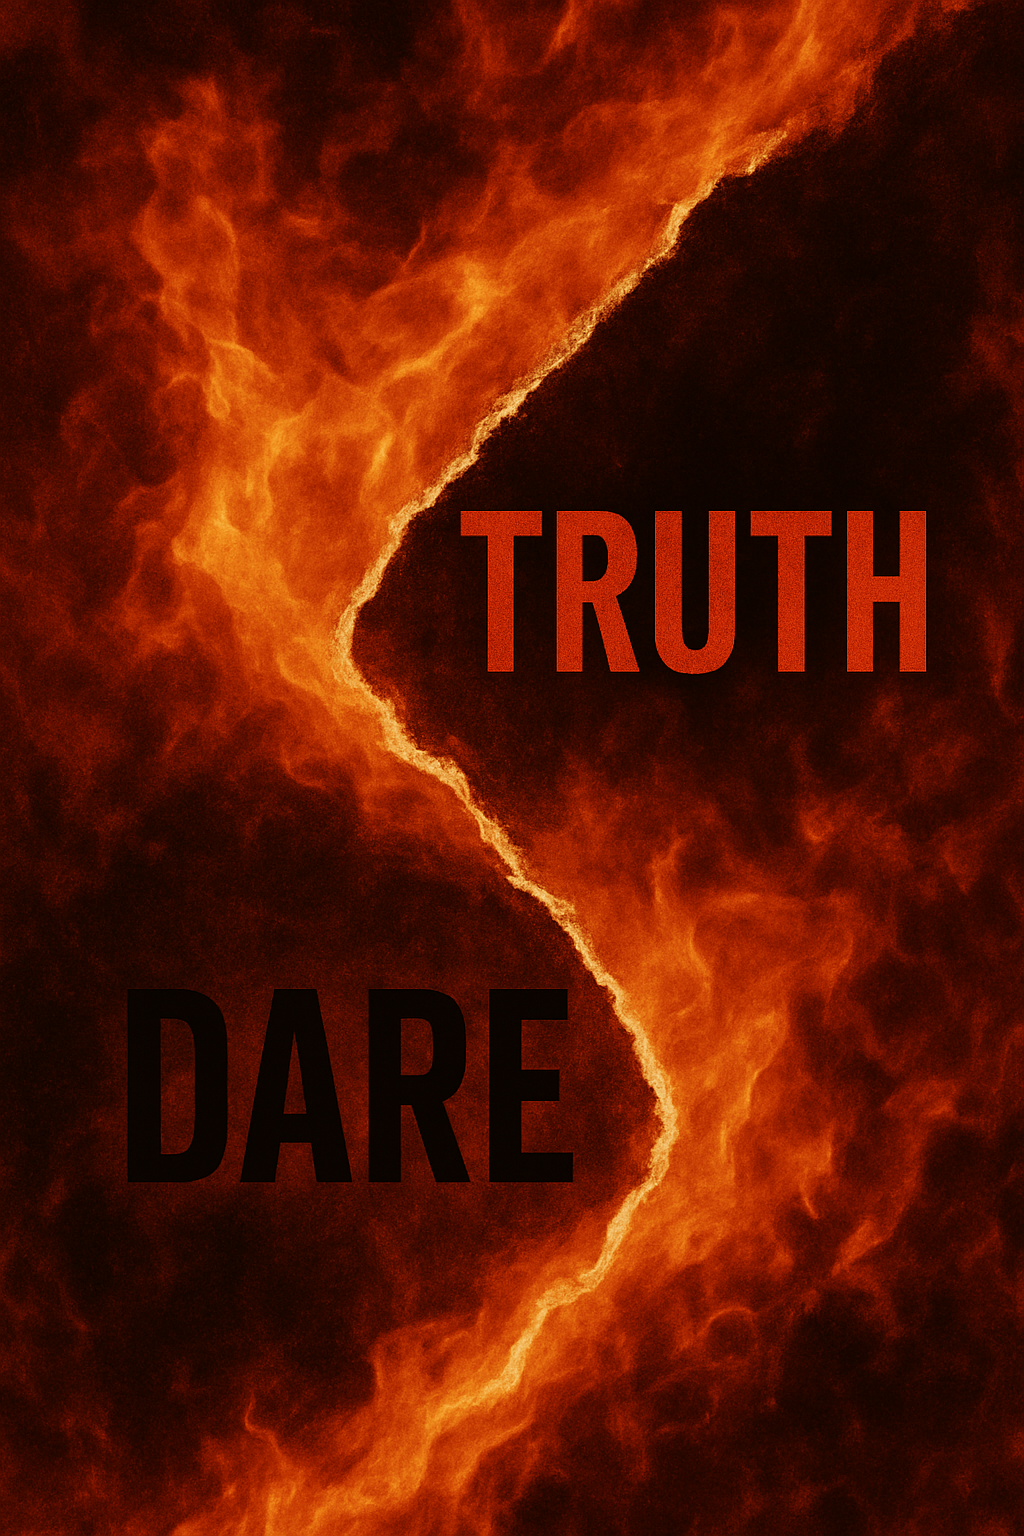
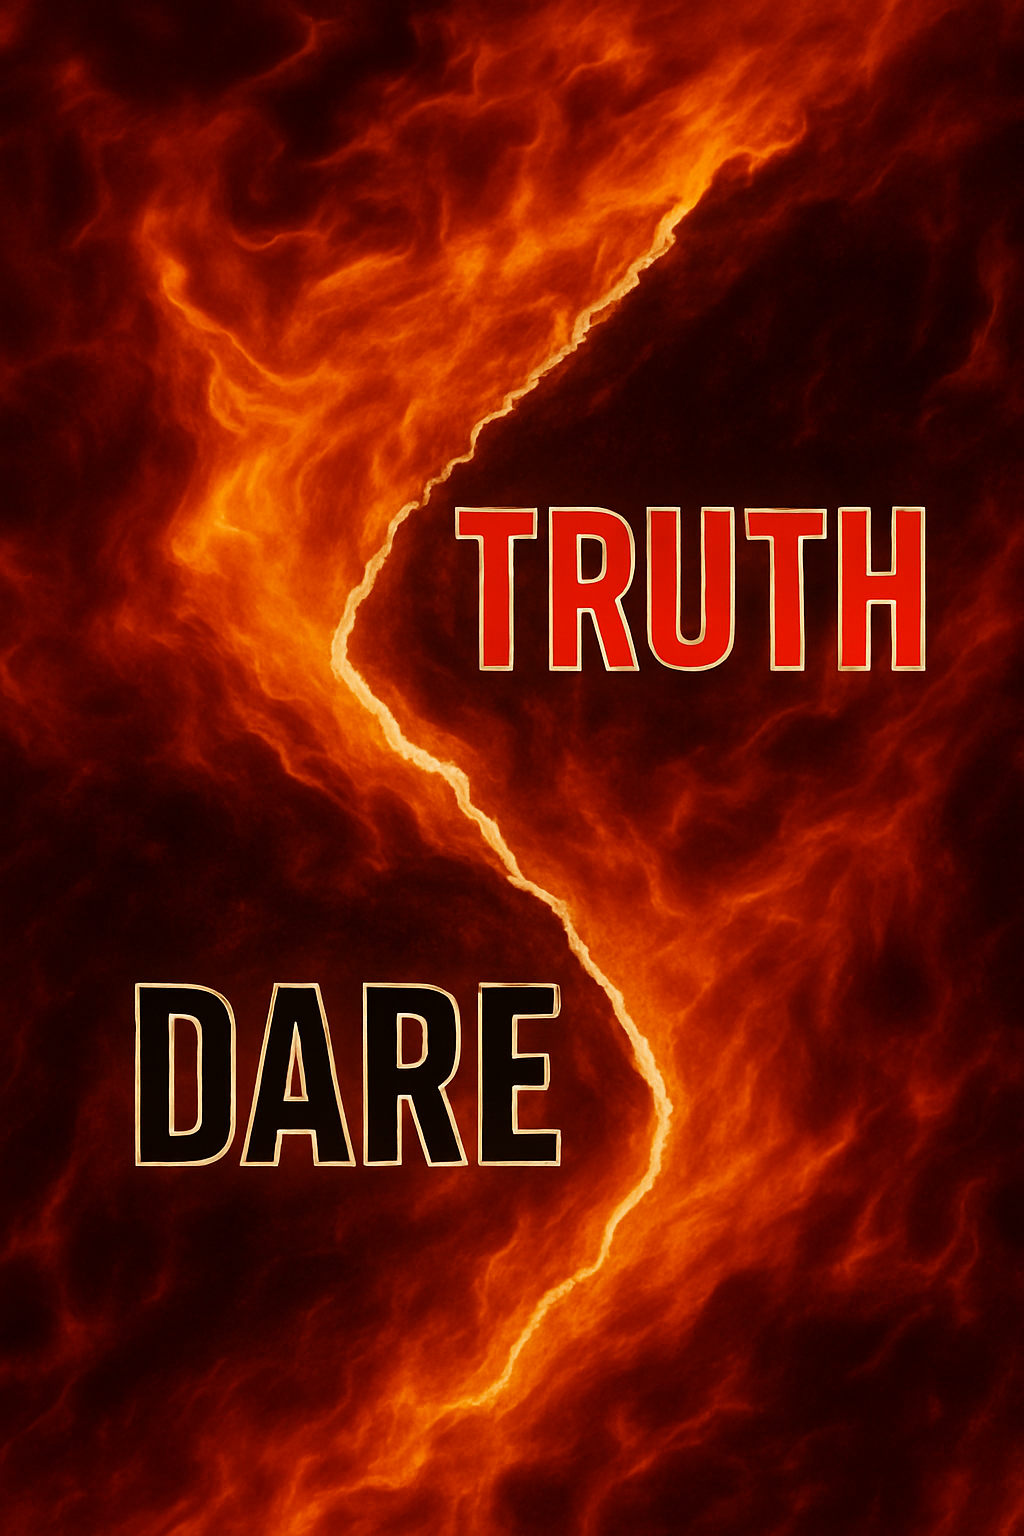
minor changes to game screen - ui chnaged and images changed

diff --git a/src/screens/ProfileScreen.tsx b/src/screens/ProfileScreen.tsx
@@ -18,6 +18,7 @@ import api from "../utils/api";
 import { Dimensions, Animated } from "react-native";
 import { LinearGradient } from "expo-linear-gradient";
 import { RefreshControl } from "react-native";
+import LoadingScreen from "./LoadingScreen";
 const VerificationImage = require("../assets/icons/verified-logo.png");
 const PremiumImage = require("../assets/icons/premium.png");
 
@@ -56,6 +57,8 @@ const ProfileScreen: React.FC<Props> = ({ navigation }) => {
   const [personality, setPersonality] = useState<string>("Any");
   const [interests, setInterests] = useState<string[]>([]);
 
+
+
   useEffect(() => {
     const fetchCounters = async () => {
       try {
@@ -63,9 +66,12 @@ const ProfileScreen: React.FC<Props> = ({ navigation }) => {
         console.log(response.data.superLike)
         setSuperLikes(response.data.superLike);
         setBoosts(response.data.boost);
+        
       } catch (error) {
         console.error("Error fetching counters:", error);
       }
+        
+      
     };
     fetchCounters();
   }, []);
@@ -227,13 +233,7 @@ const ProfileScreen: React.FC<Props> = ({ navigation }) => {
     navigation.navigate("Premium");
   };
 
-  if (loading) {
-    return (
-      <View style={styles.loadingContainer}>
-        <Text style={{ color: "#FFF" }}>Loading...</Text>
-      </View>
-    );
-  }
+
 
   const InfoSection = ({
     title,
@@ -256,6 +256,12 @@ const ProfileScreen: React.FC<Props> = ({ navigation }) => {
       )}
     </View>
   );
+
+  if (loading) {
+  // use your custom container *or* the dedicated LoadingScreen
+  return <LoadingScreen description="Fetching your Profile" />;
+  // (If you prefer the plain container, keep the same JSX you deleted.)
+}
 
   return (
     <ScrollView

diff --git a/src/screens/GameScreens.tsx b/src/screens/GameScreens.tsx
@@ -20,9 +20,8 @@ const CARD_HEIGHT = height * 0.85;
 const games = [
   { name: 'Truth or Dare 🔥', img: require('../../assets/gameScreenImages/truth-or-dare_orig.png'), route: 'TruthOrDareModeSelection' },
   { name: 'Would You Rather ❓', img: require('../../assets/gameScreenImages/would-you-rather-questions.png'), route: 'WYRLobbyScreen' },
-  { name: 'Couple Quiz 💕', img: require('../../assets/gameScreenImages/would-you-rather-questions.png'), route: 'Couple Quiz' },
-  { name: 'Flirty Questions 💌', img: require('../../assets/gameScreenImages/flirty-questions.jpeg'), route: 'Flirty Questions' },
-  { name: 'Never Have I Ever 🍸', img: require('../../assets/gameScreenImages/never-have-i-ever.jpeg'), route: 'GroupSizeSelectorScreen' },
+  { name: 'Couple Quiz 💕', img: require('../../assets/gameScreenImages/couples-quiz.png'), route: 'Couple Quiz' },
+  { name: 'Never Have I Ever 🍸', img: require('../../assets/gameScreenImages/never-have-i-ever.png'), route: 'GroupSizeSelectorScreen' },
 ];
 
 const GameCard = ({

diff --git a/src/screens/AllChats.tsx b/src/screens/AllChats.tsx
@@ -16,7 +16,6 @@ import AsyncStorage from "@react-native-async-storage/async-storage";
 import api from "../utils/api";
 import { getUserId } from "../utils/constants";
 import { io } from "socket.io-client";
-import Icon from "react-native-vector-icons/FontAwesome";
 import LoadingScreen from "./LoadingScreen";
 
 const socket = io("http://192.168.18.150:3000");
@@ -48,7 +47,7 @@ const ChatsScreen: React.FC<Props> = ({ navigation }) => {
   const [userId, setUserId] = useState<string | null>(null);
 
 
-//   useEffect(() => {
+//   useEffect(() => {                                    constant polling of chats -- causing error rn
 //   const startPolling = () => {
 //     const interval = setInterval(() => {
 //       fetchChats(); // Call your existing fetchChats function
@@ -272,7 +271,7 @@ const styles = StyleSheet.create({
   chatItem: {
     flexDirection: "row",
     alignItems: "center",
-    backgroundColor: "#1E1E1E",
+    backgroundColor: "#0f0f0f",
     padding: 15,
     borderRadius: 10,
     marginBottom: 10,

diff --git a/src/screens/Likes.tsx b/src/screens/Likes.tsx
@@ -161,7 +161,7 @@ const styles = StyleSheet.create({
   },
   card: {
     width: "48%", // Takes up slightly less than half to allow spacing
-    backgroundColor: "#1E1E1E",
+    backgroundColor: "#0f0f0f",
     borderRadius: 10,
     padding: 15,
     alignItems: "center", // Center items vertically
@@ -186,7 +186,7 @@ const styles = StyleSheet.create({
     width: "100%", // Ensure text takes full width for proper centering
   },
   chatButton: {
-    backgroundColor: "#242424",
+    backgroundColor: "transparent",
     padding: 8,
     borderRadius: 20,
     width: 40,
